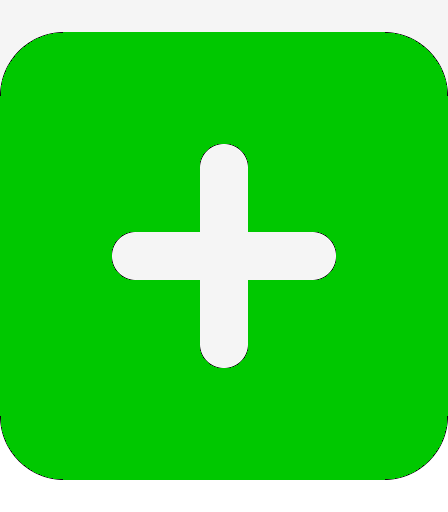
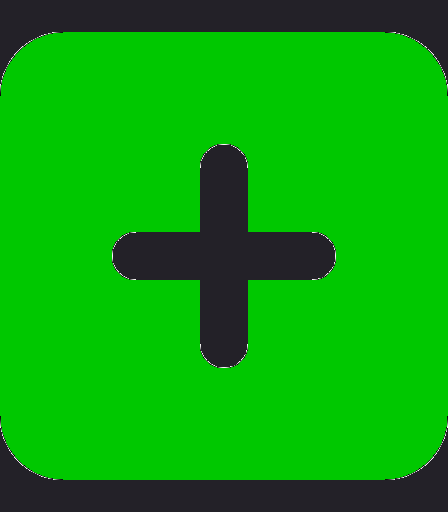
finalizadas las funcionalidades de ambos cruds

Changed region(s): [[0.25, 0.2812, 0.75, 0.7188], [0.0, 0.8438, 1.0, 1.0], [0.0, 0.0, 1.0, 0.1562]]

diff --git a/WEB/css/style.css b/WEB/css/style.css
@@ -7,7 +7,7 @@ body{
 }
 
 header{
-    /* background-color: #232128; */
+    background-color: #232128;
     text-align: center;
     margin: 0;
     position: fixed;
@@ -17,7 +17,7 @@ header{
 /* Estilos generales */
 .CRUD {
     font-family: Arial, sans-serif;
-    /* background-color: #232128; */
+    background-color: #232128;
 }
 
 .container {
@@ -30,7 +30,7 @@ header{
 
 .contenedor {
     width: 100vw;
-    max-width: 86vw;
+    max-width: 88vw;
     margin: 0 auto;
     padding: 20px;
 }
